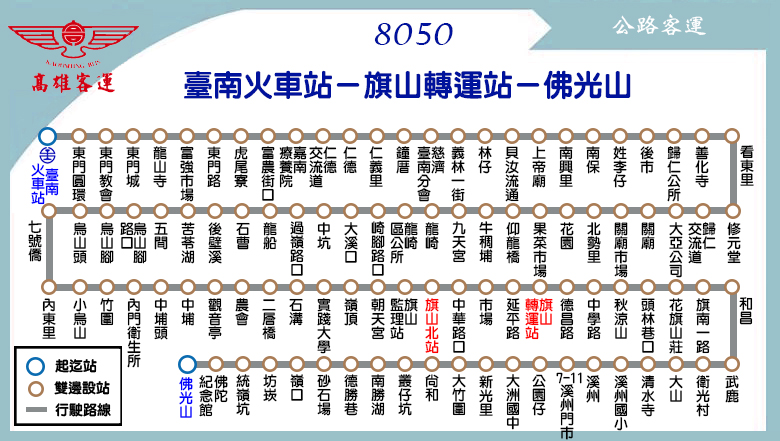
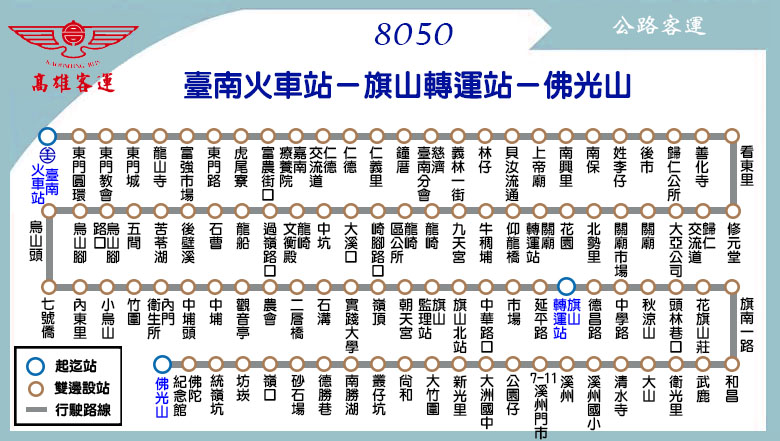
更新路線圖、票價表：8050 (更新票價表以及新增市民卡基本里程免費票價；「果菜市場」更名為「關廟轉運站」、新增「龍崎文衡殿」、「衛光村」更名為「衛光里」)

diff --git a/route/fare_and_time/highway_bus_8050.js b/route/fare_and_time/highway_bus_8050.js
@@ -4,45 +4,44 @@ highway_bus_8050_interval_stop = [
 ["嘉南療養院","仁德交流道","仁德","仁義里","鍾厝","慈濟臺南分會","義林一街口","林仔","貝汝流通"], // 仁德
 ["上帝廟","南興里","南保","姓李仔","後市","歸仁公所","善化寺","看東里","修元堂","歸仁交流道"], // 歸仁
 ["大亞公司","關廟","關廟市場"], // 關廟
-["北勢里","花園","果菜市場","仰龍橋","牛稠埔","九天宮"], // 花園
+["北勢里","花園","關廟轉運站","仰龍橋","牛稠埔","九天宮"], // 花園
 ["龍崎","龍崎公所","崎腳路口","大溪口"], // 龍崎
-["中坑"], // 中坑
+["中坑","龍崎文衡殿"], // 中坑
 ["過嶺路口","龍船"], // 龍船
 ["石曹","後壁溪","苦苓湖"], // 苦苓湖
 ["五間","烏山腳路口","烏山腳","烏山頭"], // 烏山頭
 ["七號橋","內東里","小烏山","竹圍"], // 內東里
 ["內門衛生所","中埔頭","中埔","觀音亭","農會","二層橋","石溝","實踐大學"], // 中埔
 ["嶺頂","朝天宮","旗山監理站","旗山北站","中華路口","市場","延平站","旗山轉運站","德昌路","中學路","秋涼山","頭林巷口","花旗山莊","旗南一路"], // 旗山
-["和昌","武鹿","衛光村","大山","清水寺","溪洲國小","溪洲","7-11溪洲門市","公園仔","大洲國中","新光里"], // 溪州
+["和昌","武鹿","衛光里","大山","清水寺","溪洲國小","溪洲","7-11溪洲門市","公園仔","大洲國中","新光里"], // 溪州
 ["大竹圍","尚和","欉仔坑","南勝湖"], // 尚和
 ["德勝巷","砂石場","嶺口","坊崁","統嶺坑"], // 嶺口
 ["佛陀紀念館","佛光山"] // 佛光山
 ];
-highway_bus_8050_stop_time_consume = [0,2,4,5,7,9,10,11,12,13,15,17,18,19,20,21,23,25,28,30,31,32,34,35,36,37,38,39,40,41,42,42,42,43,44,45,46,47,48,49,50,51,52,54,55,56,57,58,60,61,62,63,64,65,66,67];
 highway_bus_8050_fare = [
-[24,23,37,45,48,56,64,68,75,84,95,103,127,142,151,164,172],
-[26,24,21,22,25,33,42,45,53,61,72,80,104,119,128,141,149],
-[42,24,24,21,21,21,28,31,39,47,58,66,90,105,114,127,135],
-[51,25,24,24,21,21,21,23,31,39,50,58,82,97,106,119,127],
-[54,29,24,24,24,21,21,21,28,36,47,55,79,94,103,116,124],
-[64,38,24,24,24,24,21,21,21,28,39,47,71,86,95,107,116],
-[73,47,32,24,24,24,24,21,21,21,30,39,63,78,86,99,107],
-[77,52,36,27,24,24,24,24,21,21,27,35,59,74,83,95,104],
-[86,60,44,35,32,24,24,24,24,21,21,27,51,66,75,88,96],
-[96,70,54,45,41,32,24,24,24,24,21,21,43,58,67,79,88],
-[108,82,66,57,53,44,35,30,24,24,24,21,32,47,56,69,77],
-[117,91,76,67,63,53,44,40,31,24,24,24,24,39,48,61,69],
-[145,119,103,94,90,81,71,67,59,49,37,27,24,21,24,37,45],
-[162,136,120,111,107,98,88,84,76,66,54,44,24,24,21,22,30],
-[172,146,130,121,117,108,98,94,86,76,64,54,27,24,24,21,21],
-[186,160,145,135,132,122,113,109,100,90,78,69,42,25,24,24,21],
-[196,170,154,145,141,132,122,118,110,100,88,78,51,34,24,24,24]
+[24],
+[24,24],
+[33,24,24],
+[41,24,24,24],
+[44,27,24,24,24],
+[53,36,24,24,24,24],
+[62,44,30,24,24,24,24],
+[71,53,38,30,27,24,24,24],
+[77,59,44,36,33,24,24,24,24],
+[86,68,53,44,41,33,24,24,24,24],
+[95,77,62,53,50,41,33,24,24,24,24],
+[104,86,71,62,59,50,41,33,27,24,24,24],
+[130,113,98,89,86,77,68,59,53,44,36,27,24],
+[145,127,113,104,101,92,83,74,68,59,50,41,24,24],
+[157,139,124,115,113,104,95,86,80,71,62,53,27,24,24],
+[172,154,139,130,127,118,110,101,95,86,77,68,41,27,24,24],
+[181,163,148,139,136,127,118,110,104,95,86,77,50,36,24,24,24]
 ];
 // format = [time at the start stop] or
 // [time, other] or
 // [time, start_stop, end_stop, other]
-highway_bus_8050_main_stop_name = ["臺南<br />火車站","仁德","歸仁公所","關廟","龍崎","實踐大學","旗山北站","旗山<br />轉運站","佛光山"];
-highway_bus_8050_main_stop_time_consume = [0, 20, 30, 35, 45, 70, 80, 85, 110];
-highway_bus_8050_important_stop = [0, 3, 7, 8]; // 臺南火車站, 關廟, 旗山轉運站, 佛光山
+highway_bus_8050_main_stop_name = ["臺南<br />火車站","仁德","歸仁公所","關廟<br />轉運站","龍崎","實踐大學","旗山北站","旗山<br />轉運站","佛光山"];
+highway_bus_8050_main_stop_time_consume = [0, 20, 30, 40, 45, 70, 80, 85, 110];
+highway_bus_8050_important_stop = [0, 3, 5, 7, 8]; // 臺南火車站, 關廟轉運站, 實踐大學, 旗山轉運站, 佛光山
 highway_bus_8050_time_go = [["05:45",7,8],["06:40",7,8],["06:25"],["09:10"],["10:10"],["14:10"],["17:10"],["18:50"]];
 highway_bus_8050_time_return = [["06:15"],["07:10"],["08:45"],["11:45"],["13:15"],["16:45"],["19:10",8,7],["20:50",8,7]];

diff --git a/tools/web_model.js b/tools/web_model.js
@@ -181,7 +181,7 @@ function block_fare(section_type, additional_message, section_point){
 						<th></th><th>全票</th><th>半票</th>\
 					</tr>\
 					<tr>\
-						<td><b>投現</b></td>\
+						<td><b>現金</b></td>\
 						<td id="cash_adult">-</td>\
 						<td id="cash_half">-</td>\
 					</tr>\
@@ -203,7 +203,7 @@ function block_fare(section_type, additional_message, section_point){
 					<th>全票</th><th>半票</th>\
 				</tr>\
 				<tr>\
-					<td><b>投現</b></td>\
+					<td><b>現金</b></td>\
 					<td>18</td><td>9</td>\
 				</tr>\
 				<tr>\
@@ -221,7 +221,7 @@ function block_fare(section_type, additional_message, section_point){
 					<th>二段票</th><th>一段票</th>\
 				</tr>\
 				<tr>\
-					<td><b>投現</b></td>\
+					<td><b>現金</b></td>\
 					<td>');
 
 		//----- 二段票現金收費價格歧異 -----//
@@ -253,6 +253,58 @@ function block_fare(section_type, additional_message, section_point){
 		else document.write(CitybusMSG); // Tainan Bus and charge by section
 		document.write(PromotionMSG); // print the promotion message of Tainan Bus
 	}
+	if(additional_message) document.write(additional_message); // print additional message
+	document.write('<p>　</p></div>\
+	</div>\
+</div>');
+}
+
+function block_fare_highway(charge_type, additional_message){
+	// charge_type:
+	// (1) 'Full': 現金及刷卡票價皆取自陣列
+	// (2) 'Highway': 刷卡票價取自(現金*刷卡費率)
+	// (3) 'Tainan': 刷卡票價取自(現金*刷卡費率 - 台南市優惠票價)
+	// (4) 'Kaohsiung': 刷卡票價取自(現金*刷卡費率)，另一卡通刷卡最高上限$60
+	// (5) '8050': 刷卡票價取自(現金*刷卡費率)，另台南市民卡刷卡票價 = (現金*刷卡費率 - 基本里程費率)
+	document.write('<div id="wrapper3">\
+	<a name="fare"></a>\
+	<div id="faretable" class="container">\
+		<div class="title">\
+			<h2>' + title_name + ' ─ ' + route_name + ' 票價表</h2>\
+			<span class="byline">' + title_name_en + ' ' + route_name_en + ', Bus Fare</span>\
+		</div>\
+		<div class="content">');
+
+	create_select_menu( eval( route_file_name + '_interval_stop'), route_type, route_file_name, charge_type);
+	document.write('<br/>\
+			<table id="showfareInfo">\
+				<tr>\
+					<th></th><th>全票</th><th>半票</th>\
+				</tr>\
+				<tr>\
+					<td><b>現金</b></td>\
+					<td id="cash_adult">-</td>\
+					<td id="cash_half">-</td>\
+				</tr>\
+				<tr>\
+					<td><b>電子票證</b></td>\
+					<td id="RFID_adult">-</td>\
+					<td id="RFID_half">-</td>\
+				</tr>');
+	if(charge_type == 'Kaohsiung' || charge_type == '8050') {
+		var card_name = (charge_type == 'Kaohsiung') ? "一卡通" : "臺南市市民卡";
+		document.write('<tr><td><b>'+card_name+'</b></td>\
+					<td id="card_adult">-</td>\
+					<td id="card_half">-</td>\
+				</tr>');
+	}
+	document.write('</table>\
+			<p>　</p>');
+	print_fare_table( eval(route_file_name + '_interval_name'), eval(route_file_name + '_fare'), fare_table_color, charge_type);
+
+	document.write('<p>　</p>\
+		<h2>使用電子票證時，上下車皆須刷卡</h2><br />\
+		<h3>刷電子票證票價僅供參考，誤差為1元上下</h3>');
 	if(additional_message) document.write(additional_message); // print additional message
 	document.write('<p>　</p></div>\
 	</div>\

diff --git a/tools/show_fare_tool.js b/tools/show_fare_tool.js
@@ -1,3 +1,6 @@
+var HIGHWAY_CARD_PRICE_RATIO = 0.87842; // Card price = Cash price * HIGHWAY_CARD_PRICE_RATIO
+var HIGHWAY_CARD_PRICE_BASE = 21; // The card price for distance within 8 km
+
 function create_select_menu(name_array, color_name, LINE_NAME, fare_type){ // print the fare menu
 	var max_color_num = 4;
 	if(color_name=='highway_bus' || color_name=='tour_bus'){
@@ -24,10 +27,10 @@ function create_select_menu(name_array, color_name, LINE_NAME, fare_type){ // pr
 }
 
 function query_fare(theForm, fare_array, fare_type){
-	//alert('fuck');
 	var fd = parseInt(theForm.from.value,10);
 	var td = parseInt(theForm.to.value,10);
 	var price = (fd<=td)?fare_array[td][fd]:fare_array[fd][td];
+	
 	switch(fare_type){
 		case '8km':
 			card_price = price - 26;
@@ -37,6 +40,12 @@ function query_fare(theForm, fare_array, fare_type){
 			break;
 		case 'highway':
 			card_price = (fd<td) ? fare_array[fd][td]: (fd==td) ? 21 : fare_array[td][fd];
+			break;
+		case '8050':
+			card_price = Math.round(price * HIGHWAY_CARD_PRICE_RATIO);
+			var citizen_card_price = card_price - HIGHWAY_CARD_PRICE_BASE;
+			document.getElementById("card_adult").innerHTML = citizen_card_price;
+			document.getElementById("card_half").innerHTML = Math.ceil(citizen_card_price/2);
 			break;
 	}
 	document.getElementById("cash_adult").innerHTML = price < 0 ? 'none' : price; // 現金全票
@@ -59,12 +68,21 @@ function print_fare_table(interval_name, fare, color, fare_type){ // the functio
 			else if(fare[i][j]<0) document.write('<td>-</td>' );
 			else if( i>j ) fare[i][j] < 0 ? document.write('<td>-</td>') : document.write('<td>' + fare[i][j] + '</td>');
 			else{
-				var card_price = (fare_type=='8km') ? fare[j][i] - 26 : fare[i][j];
+				switch(fare_type) {
+					case '8km':
+						card_price = fare[j][i] - 26;
+						break;
+					case '8050':
+						card_price = Math.round(fare[j][i] * HIGHWAY_CARD_PRICE_RATIO);
+						break;
+					default:
+						card_price = fare[i][j];
+				}
 				(fare[j][i] < 0) ? document.write('<td>-</td>') : document.write('<td>' + card_price + '</td>');
 			}
 		}
 		document.write('</tr>');
 	}
 	document.write('</table>');
-	document.write('<b>左方為現金價格，右方為刷卡價格</b><br /></div>');
+	document.write('<b>左方為現金價格，右方為刷電子票證價格</b><br /></div>');
 }

diff --git a/highway/8050.html b/highway/8050.html
@@ -8,8 +8,6 @@
 	route_file_name = 'highway_bus_8050';
 	route_type = 'highway_bus';
 	route_interval = ['臺南火車站','旗山','佛光山'];
-	route_start_stop = '臺南火車站';
-	route_end_stop = '佛光山';
 </script>
 <script src="../tools/web_model.js"></script> 
 <script type="text/javascript">
@@ -24,9 +22,12 @@
 	block_header();
 	block_route_map(null);
 	block_route_info(route_interval,'高雄客運','','里程計費','http://taiwanbus.tw/information.aspx?Line=9325&Lang=" target="_blank');
-	block_fare(10, '<h1>本路線不適用一卡通收費最高上限優惠</h1>');
-	block_time_schedule(route_start_stop,route_end_stop,'');
-	block_transfer(transfer_tainan_railway_station);
+	block_fare_highway("8050",'<h1>本路線不適用一卡通收費最高上限優惠</h1>\
+<center><div style="text-align: left; width: 550px; border:solid 1px; margin-top: 30px; background-color: #BBFFBB; padding: 15px;"><h3>1. 持市民卡所有卡種刷卡搭乘8050公車享基本里程免費，以及2小時內大台南公車及8050雙向轉乘9元優惠。</h3>\
+<h3>2. 臺南市65歲以上市民使用「市民卡敬老卡」、身心障礙市民使用「市民卡愛心卡」刷卡乘車超過基本里程依半票金額扣款。</h3>\
+<h3>3. 臺南市學生使用「市民卡學生卡」無額外85折優惠。</h3></div></center>');
+	block_time_schedule('臺南火車站/旗山轉運站','佛光山','');
+	block_transfer(transfer_tainan_railway_station + transfer_guanmiao);
 	block_copyright();
 </script>
 </body>
